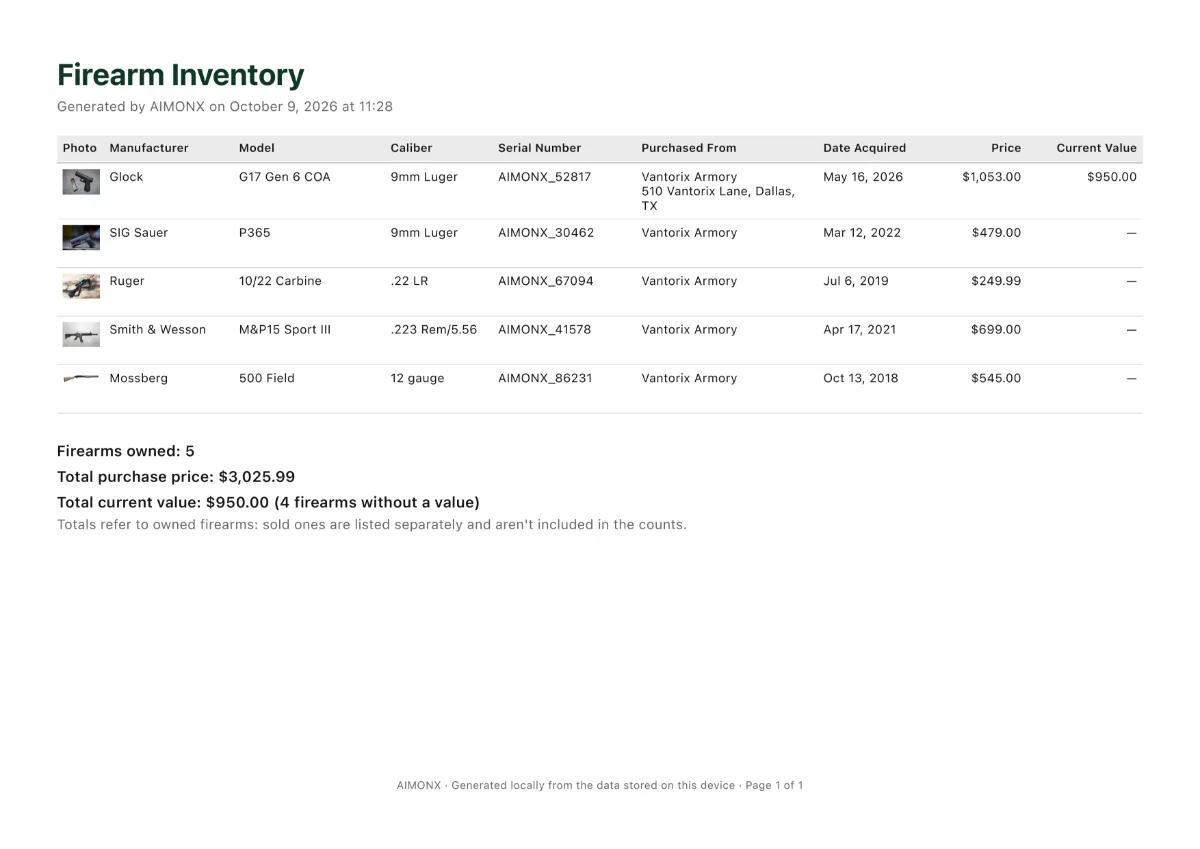
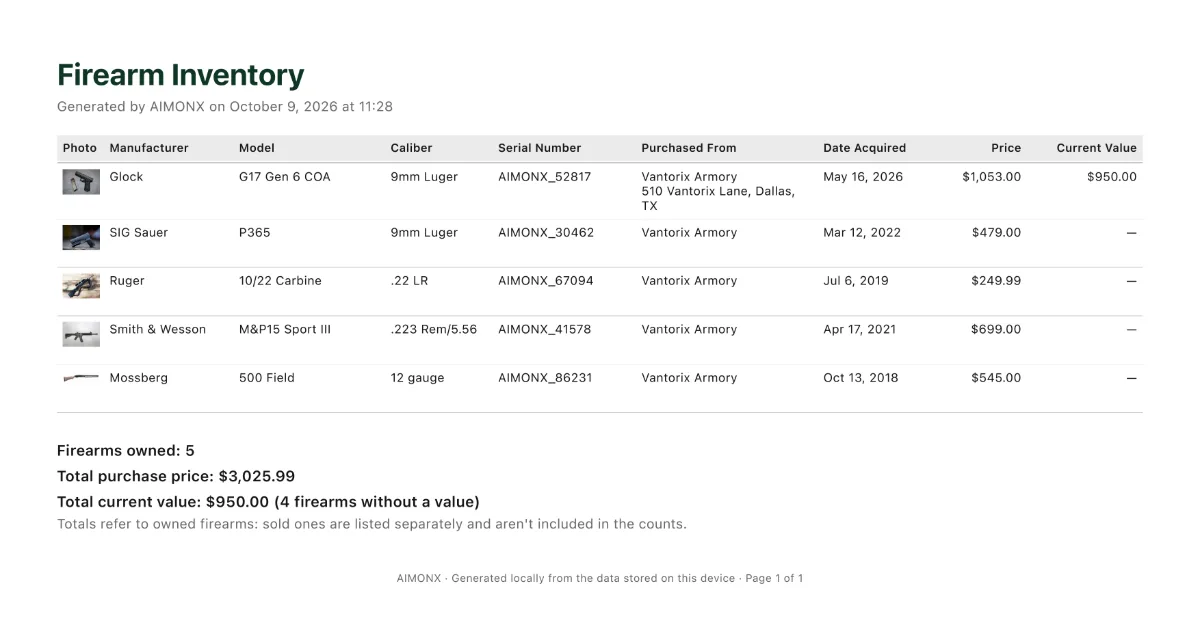
giro W14 fase A: le correzioni di Pier dopo l'anteprima
Dalla bozza: il secondo testo alternativo riscritto, e nel piede — quindi su
tutte e quattro le pagine — la riga sui marchi degli altri.

Fascia di chiusura prima del piede: il logo grande e il motto scritto a mano,
che esce dalla parte alta invece di ripetersi. Il secondo badge chiesto lì NON
c'è: le linee guida di Apple dicono un badge per layout, e lo decide Pier.

Il logo della barra ha un file per densità: sui telefoni a 3x non è più
sgranato. La pagina del PDF perde la fascia bianca fra i totali e la riga in
fondo, che resta.

Solo anteprima: niente su main.

diff --git a/_layouts/landing.html b/_layouts/landing.html
@@ -194,30 +194,11 @@
         </ul>
 
         {%- comment -%}
-          IL MOTTO SCRITTO A MANO. ⛔ È TESTO, non un'immagine: si legge con un
-          lettore di schermo, si seleziona, si ingrandisce. Il font sta in
-          `assets/fonts/` ed è servito da aimonx.app — ⛔ mai da un server
-          esterno (vincolo del sito, e `WD26`).
-          ⚠ UNA FRASE PER RIGA, e le righe arrivano dal testo, non dal
-          browser: il perché, col conto che lo dimostra, sta in
-          `_data/landing.yml`.
-          ⚠ Lo svolazzo sotto è decorativo e basta: `aria-hidden`.
+          ⛔ IL MOTTO A MANO NON È PIÙ QUI, dal giro W14: è sceso nella fascia
+          di chiusura in fondo alla pagina, col logo grande. Spostato e NON
+          ripetuto — scelta di CC da guardare: una frase scritta a mano due
+          volte nella stessa pagina smette di sembrare scritta a mano.
         {%- endcomment -%}
-        <p class="scritta-mano">
-          {%- comment -%}
-            ⚠ Gli span sono separati da un a capo VERO, come le tre righe
-            della domanda: sono blocchi, quindi a vedersi non cambia niente,
-            ma chi COPIA il motto si porta via «Same passion. Every round
-            counted.» e non le due frasi attaccate.
-          {%- endcomment -%}
-          {%- for r in d.hero.motto %}
-          <span class="riga">{{ r }}</span>
-          {%- endfor %}
-          <svg class="svolazzo" viewBox="0 0 200 18" aria-hidden="true" focusable="false" preserveAspectRatio="none">
-            <path d="M3 13c34-7 71-9 104-8 24 .7 49 3 90 8" fill="none"
-                  stroke="currentColor" stroke-width="2.4" stroke-linecap="round"/>
-          </svg>
-        </p>
       </div>
     </div>
   </div>
@@ -330,6 +311,55 @@
       </ul>
     </section>
   </main>
+
+  {%- comment -%}
+    LA FASCIA DI CHIUSURA — giro W14, scelta di Pier del 09/10/2026: la firma
+    della pagina. Il LOGO GRANDE, uscito dalla parte alta quando lì è entrata
+    la schermata Home, e il MOTTO scritto a mano.
+    ⛔ NESSUNA PAROLA NUOVA: il motto è quello della bozza, lo stesso di prima.
+    ⚠ Il logo porta `alt=""` come ha sempre fatto: è decorativo, il nome
+    AIMONX è scritto in lettere nella barra e nel piede subito sotto.
+    ⚠ `lazy`: sta in fondo alla pagina, e il file grande pesa 183 KB.
+
+    ⛔⛔ IL SECONDO BADGE CHE PIER HA CHIESTO QUI NON C'È, ED È UNA FERMATA,
+    NON UNA DIMENTICANZA. Le App Store Marketing Guidelines di Apple, rilette
+    il 09/10/2026 alla voce «Badge Use», dicono: «Use one App Store badge per
+    layout or video». È la regola che questo file e `scripts/misure-pagine.rb`
+    applicano dal giro W12 («UNO SOLO PER PAGINA»). Se una pagina lunga valga
+    come un solo «layout» non sta scritto, e ⛔ deciderlo non è di CC: è la
+    zona dei marchi Apple. Lo decide Pier, sapendolo.
+  {%- endcomment -%}
+  <div class="firma">
+    <img class="logo" src="{{ '/assets/img/aimonx-512.png' | relative_url }}"
+         srcset="{{ '/assets/img/aimonx-256.png' | relative_url }} 256w, {{ '/assets/img/aimonx-512.png' | relative_url }} 512w"
+         sizes="(min-width: 880px) 176px, 128px"
+         alt="" width="512" height="512" loading="lazy" decoding="async">
+        {%- comment -%}
+      IL MOTTO SCRITTO A MANO. ⛔ È TESTO, non un'immagine: si legge con un
+      lettore di schermo, si seleziona, si ingrandisce. Il font sta in
+      `assets/fonts/` ed è servito da aimonx.app — ⛔ mai da un server
+      esterno (vincolo del sito, e `WD26`).
+      ⚠ UNA FRASE PER RIGA, e le righe arrivano dal testo, non dal
+      browser: il perché, col conto che lo dimostra, sta in
+      `_data/landing.yml`.
+      ⚠ Lo svolazzo sotto è decorativo e basta: `aria-hidden`.
+    {%- endcomment -%}
+    <p class="scritta-mano">
+      {%- comment -%}
+        ⚠ Gli span sono separati da un a capo VERO, come le tre righe
+        della domanda: sono blocchi, quindi a vedersi non cambia niente,
+        ma chi COPIA il motto si porta via «Same passion. Every round
+        counted.» e non le due frasi attaccate.
+      {%- endcomment -%}
+      {%- for r in d.hero.motto %}
+      <span class="riga">{{ r }}</span>
+      {%- endfor %}
+      <svg class="svolazzo" viewBox="0 0 200 18" aria-hidden="true" focusable="false" preserveAspectRatio="none">
+        <path d="M3 13c34-7 71-9 104-8 24 .7 49 3 90 8" fill="none"
+              stroke="currentColor" stroke-width="2.4" stroke-linecap="round"/>
+      </svg>
+    </p>
+  </div>
 
   {%- comment -%}
     ⛔ IL PIEDE NON È PIÙ SCRITTO QUI, dal giro W9: sta in `_includes/piede.html`

diff --git a/assets/css/b.scss b/assets/css/b.scss
@@ -72,7 +72,8 @@ body.v-b {
 // --- LA PARTE ALTA — giro W6, dal riferimento di Pier ----------------------
 //
 // La composizione: a sinistra le parole, a destra la schermata Home dell'app
-// (fino al W13 il logo grande) con sotto le tre garanzie e il motto a mano.
+// (fino al W13 il logo grande) con sotto le tre garanzie. ⚠ Logo e motto a
+// mano sono scesi nella fascia di chiusura, in fondo.
 // ⚠ NEL RIFERIMENTO LE GARANZIE STANNO IN UNA TERZA COLONNA, a fianco del
 // telefono. Qui stanno SOTTO il logo, ed è una differenza voluta: con tre
 // colonne dentro 66rem la colonna del testo scendeva a ~570 px e la domanda
@@ -236,7 +237,9 @@ body.v-b {
   font-weight: 600; letter-spacing: .2em; color: #9DB6AA;
 }
 
-// --- la colonna di destra: la schermata, le garanzie, il motto -------------
+// --- la colonna di destra: la schermata e le garanzie ----------------------
+// ⚠ Il motto a mano dal W14 sta nella fascia di chiusura; le sue regole, più
+// in basso, valgono là.
 .v-b .destra { display: grid; gap: clamp(1.5rem, 3.4vw, 2.2rem); justify-items: center; }
 @media (min-width: 880px) { .v-b .destra { justify-items: stretch; } }
 
@@ -492,6 +495,32 @@ body.v-b {
   margin-top: 1.3rem; max-width: 62ch;
   font-size: .98rem; line-height: 1.65; color: #B7CEC2;
 }
+
+// --- LA FASCIA DI CHIUSURA — giro W14 --------------------------------------
+// La firma della pagina, prima del piede: il logo grande e il motto a mano,
+// fianco a fianco dove c'è spazio e uno sopra l'altro dove non c'è (lo decide
+// `flex-wrap`, non una soglia). ⚠ Stessa colonna di 66rem del resto.
+// ⚠ Le tre righe del logo — angolo, filo, ombra — sono quelle che aveva nella
+// parte alta fino al W13, con le stesse ragioni: il file è un quadrato pieno e
+// l'angolo delle icone iOS lo mettiamo noi; il suo verde è quasi quello del
+// fondo, e senza il filo il quadrato si perde.
+.v-b .firma {
+  max-width: 66rem; margin: 0 auto;
+  padding: clamp(1.4rem, 4vw, 2.4rem) clamp(1.1rem, 4vw, 2.5rem) clamp(2.4rem, 6vw, 3.6rem);
+  display: flex; flex-wrap: wrap; align-items: center; justify-content: center;
+  gap: clamp(1.6rem, 5vw, 3.2rem);
+}
+.v-b .firma .logo {
+  width: 8rem; height: auto; flex: none;
+  border-radius: 22.4%;
+  border: 1px solid rgba(140, 204, 166, .22);
+  box-shadow: 0 18px 44px rgba(4, 18, 12, .45);
+}
+// ⚠ Qui il motto ha tutta la pagina, non la colonna stretta della parte
+// alta: il tetto di 2rem che valeva là (misurato sulla colonna da 13rem) qui
+// non serve, e questa regola lo scavalca a ogni larghezza.
+.v-b .firma .scritta-mano { font-size: clamp(1.9rem, 4.6vw, 2.5rem); }
+@media (min-width: 880px) { .v-b .firma .logo { width: 11rem; } }
 
 // --- chiusa ----------------------------------------------------------------
 // ⛔ L'ASPETTO DEL PIEDE NON È PIÙ QUI, dal giro W9: sta in `comune.scss`, non

diff --git a/_includes/barra.html b/_includes/barra.html
@@ -43,7 +43,15 @@ Giro W10, decisa e approvata da Pier il 22/09/2026.
     alternativo lo farebbe leggere due volte.
   {%- endcomment -%}
   <a class="acasa" href="{{ '/' | relative_url }}">
+    {%- comment -%}
+      ⭐ TRE FILE, UNO PER DENSITÀ, dal giro W14. Il marchio è largo 48 px: con
+      il solo file da 96 un telefono a 3× doveva riempirne 144 e lo
+      ingrandiva — sgranato, su tutte e quattro le pagine (misurato da
+      `scripts/peso.mjs`). Sono file che c'erano già, gli stessi pixel
+      dell'icona dell'app: non è stato disegnato niente.
+    {%- endcomment -%}
     <img class="marchio" src="{{ '/assets/img/aimonx-96.png' | relative_url }}"
+         srcset="{{ '/assets/img/aimonx-48.png' | relative_url }} 1x, {{ '/assets/img/aimonx-96.png' | relative_url }} 2x, {{ '/assets/img/aimonx-192.png' | relative_url }} 3x"
          alt="" width="48" height="48">
     <span class="nome">{{ site.data.landing.brand }}</span>
   </a>

diff --git a/_includes/piede.html b/_includes/piede.html
@@ -41,4 +41,8 @@ Nato nel giro W9, che ha portato il sito da una pagina a quattro.
     {%- endfor -%}
   </p>
   <p class="minuta">{{ piede_f.copyright }}</p>
+  {%- comment -%} Giro W14: la riga sui marchi degli altri, un paragrafo suo come nella bozza. {%- endcomment -%}
+  {%- if piede_f.altri_marchi %}
+  <p class="minuta">{{ piede_f.altri_marchi }}</p>
+  {%- endif %}
 </footer>
